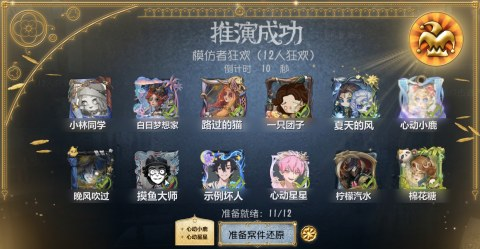
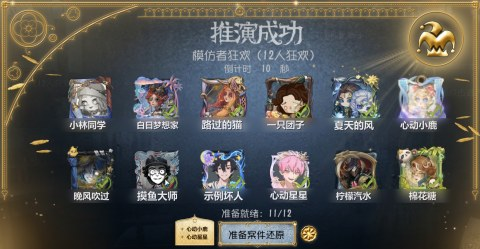
可我觉得很神圣啊's round window drops its orange glass: the gold 愚人 sits on the lobby in a gold ring, as the window on the left does.

Changed region(s): [[0.8438, 0.0281, 0.9688, 0.2811]]

diff --git a/blacklist_detect/love_scenes/angel.py b/blacklist_detect/love_scenes/angel.py
@@ -596,37 +596,28 @@ def _gilt(rect: QRectF, lines: list[_Line], scale: float, u: float) -> tuple[QIm
 
 
 def _rose_glass(center: QPointF, radius: float, scale: float, u: float) -> tuple[QRectF, QImage, QImage, QRectF, QImage]:
-    """The round window's glass, per pixel, with the 愚人 hat in gold in its middle: rays of garnet and
-    amber glass, mottled and streaked as old glass is, deeper and quieter behind the hat and paling to
-    honey toward the rim, the brightest glowing over the lead; dark lead round the hat and its shadow
-    under it. The hat is raised, polished gold lit from the upper left, its seams engraved. Also
-    where the gold shines, for the glints that sweep across it, and the light the window spills round
-    itself."""
+    """The round window, per pixel, with the 愚人 hat in gold in its middle. Round it the lobby shows
+    through, as in the window on the left: only a light smoky veil, and pale gold light behind the hat;
+    a dark line round the hat and its shadow under it. The hat is raised, polished gold lit from the
+    upper left, its seams engraved. Also where the gold shines, for the glints that sweep across it,
+    and the light the window spills round itself."""
     rect = QRectF(center.x() - radius, center.y() - radius, 2 * radius, 2 * radius)
     n = max(8, math.ceil(2 * radius * scale))
     ys, xs = np.mgrid[0:n, 0:n].astype(np.float32) + 0.5
     x, y = (xs / n * 2 - 1), (ys / n * 2 - 1)
     rho = np.hypot(x, y)
-    rnd = np.random.default_rng(7)
     px = u * scale
     hat, seams, deep = _fool(n, HAT)
-    behind = blur(hat, 9 * px)
-    garnet, amber, honey = (rgb(c) for c in ("#7a1f12", "#d4731c", "#ffcf55"))
-    # Rays of garnet and amber from the middle, paling to honey toward the rim.
-    rays = smooth(0.2, 0.8, 0.5 + 0.5 * np.cos(np.arctan2(y, x) * 12))
-    tint = garnet + (amber - garnet) * rays[..., None]
-    tint = tint + (honey - tint) * (smooth(0.5, 0.97, rho) * 0.6)[..., None]
-    # Mottled and streaked as old glass is, less so and darker behind the hat.
-    mottle = noise(n, n, n * 0.06, 3, 11)
-    streak = noise(n, n, n * 0.02, 2, 12)
-    bright = (0.82 + (0.28 * mottle + 0.08 * streak) * (1 - 0.6 * behind)) * (1 - 0.35 * behind) * rnd.uniform(0.97, 1.03)
-    # Dark lead round the hat, and its shadow down and to the right.
+    # A light smoky veil, lighter toward the ring, and pale gold light behind the hat.
+    behind = np.clip(blur(hat, 14 * px) * 1.3, 0, 1)
+    dark = rgb("#1c1308")
+    color = np.broadcast_to(dark + (rgb("#ffe7aa") - dark) * behind[..., None], (n, n, 3)).copy()
+    veil = 0.3 * (1 - 0.45 * smooth(0.35, 1.0, rho)) * (1 - behind) + 0.55 * behind
+    # A dark line round the hat, and its shadow down and to the right.
     lead = np.clip(blur(hat, max(0.6, 1.1 * px)) * 2.4, 0, 1) * (1 - hat)
     shadow = _shift(blur(hat, max(0.6, 2.2 * px)), max(1, round(1.8 * px)), max(1, round(1.2 * px))) * (1 - hat)
-    color = tint * bright[..., None] * (1 - 0.8 * lead - 0.45 * shadow)[..., None]
-    # Lit from behind, the brightest glass glows over the lead round it.
-    hot = np.clip(color - 0.55, 0, None)
-    color = color + np.dstack([blur(hot[..., k], max(1.0, n / 90)) for k in range(3)]) * 0.9
+    color = color * (1 - 0.85 * lead - 0.5 * shadow)[..., None]
+    veil = np.maximum(veil, np.maximum(0.7 * lead, 0.45 * shadow))
     # The gold: each part of the hat rising to a rounded ridge along its middle (full height 9 icon
     # pixels in), bevelled at its edges, its seams cut in and dark.
     groove = blur(seams, max(0.5, 0.45 * px))
@@ -635,7 +626,7 @@ def _rose_glass(center: QPointF, radius: float, scale: float, u: float) -> tuple
     gold = _metal(height, 9 * px) * (1 - 0.75 * np.clip(groove * 2, 0, 1))[..., None]
     color = color * (1 - hat[..., None]) + gold * hat[..., None]
     edge = 1 - smooth(0.985, 1.0, rho)
-    alpha = edge * (0.9 + 0.08 * mottle) * (1 - hat) + hat
+    alpha = edge * veil * (1 - hat) + hat
     glass = picture(color, alpha)
     shine = picture(np.ones((n, n, 3), dtype=np.float32) * rgb("#fff3cc"), hat * (0.6 + 0.4 * smooth(0.3, 0.9, gold.mean(axis=-1))))
     # Its light, spilled round it: worked out at a quarter of the size, three radii across.
